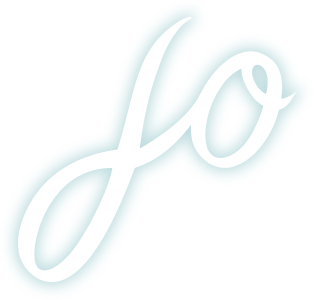
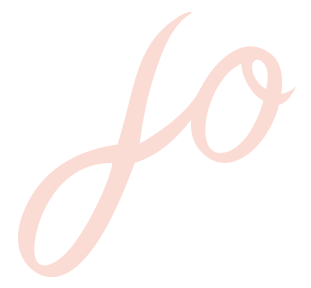
Add changes to jumbotron brand

Changed region(s): [[0.0289, 0.0312, 0.955, 0.9688]]

diff --git a/_sass/_scaffold.scss b/_sass/_scaffold.scss
@@ -83,9 +83,9 @@ h1 {
   text-align: center;
   p {
     color: #ffffff;
-    font-size: 2.4em;
+    font-size: 2.5em;
     font-family: "Work Sans", sans-serif;
-    text-shadow: 1px 1px 10px #027780;
+    margin-top: 30px;
   }
 }
 
